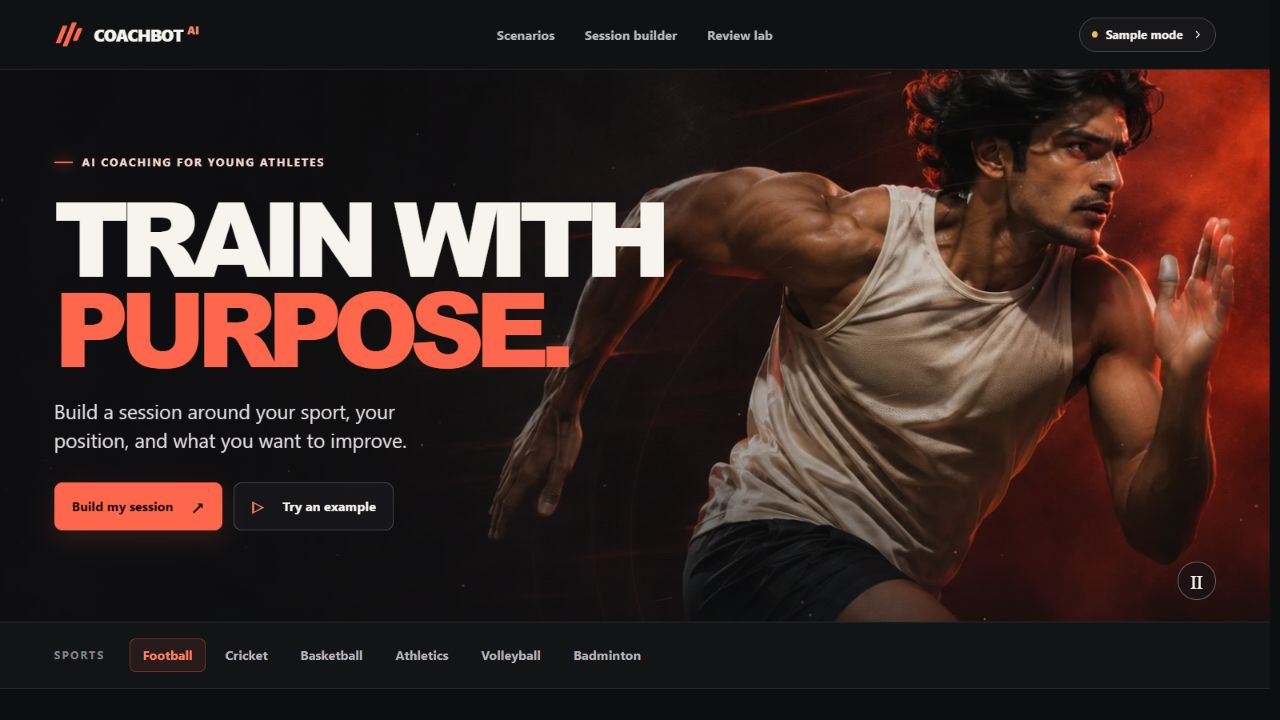
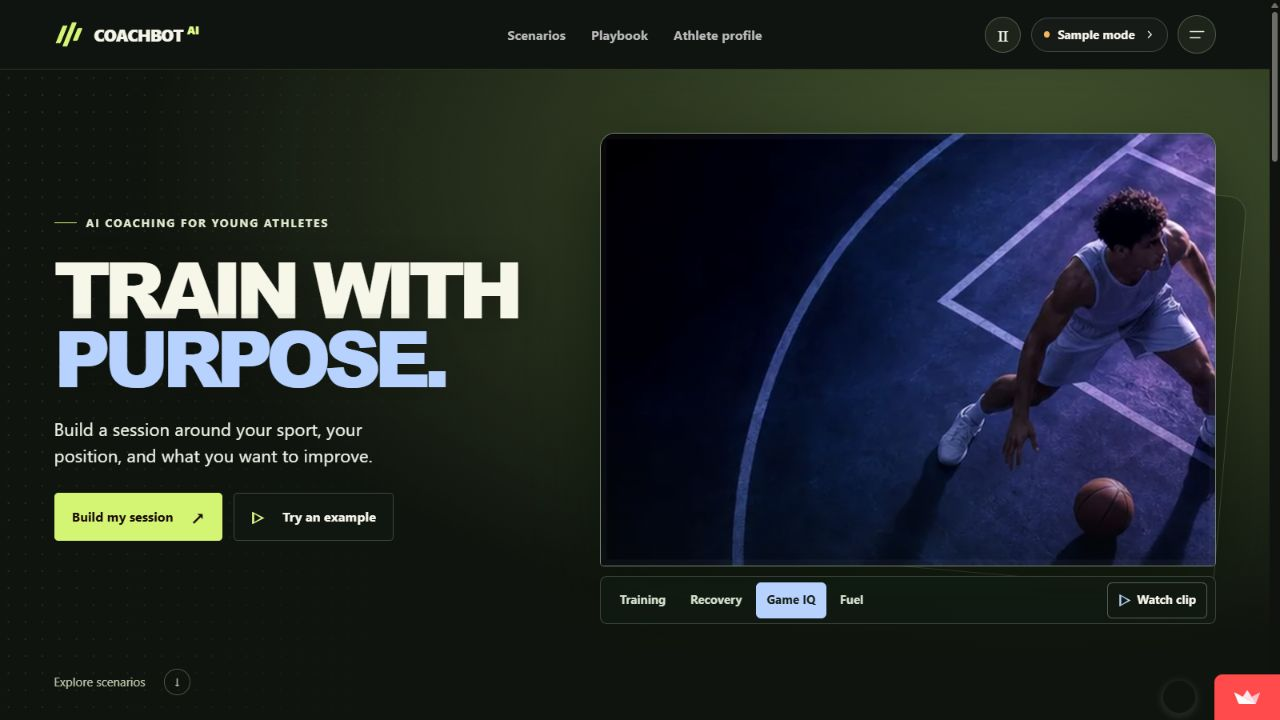
Show the live CoachBot design in the README

diff --git a/README.md b/README.md
@@ -40,11 +40,9 @@ Open the local URL shown in the terminal. The sample workflow runs without crede
 | [Review Lab](docs/screenshots/review.jpg) | Select two runs, compare the outputs and export run evidence. |
 | [390 px mobile view](docs/screenshots/mobile.jpg) | Use the same profile form and playbook on a narrow screen. |
 
+![CoachBot's live landing page showing the Game IQ sports clip and the four-category selector](docs/screenshots/home.jpg)
+
 ![A CoachBot session with the progress bar and a completed step](docs/screenshots/plan.jpg)
-
-![CoachBot Coaching Playbook showing the animated training preview and mode index](docs/screenshots/playbook.jpg)
-
-![CoachBot Review Lab comparing a safety check with a sample plan](docs/screenshots/review.jpg)
 
 ## Coaching playbook
 
